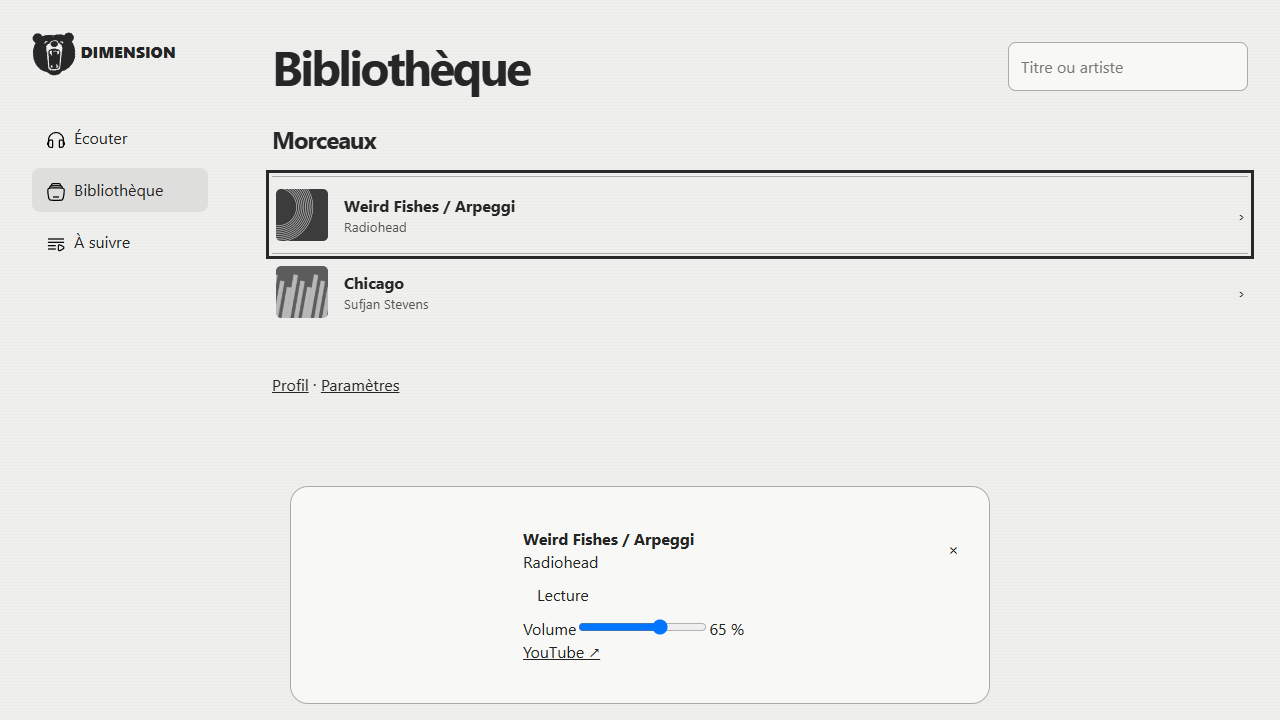
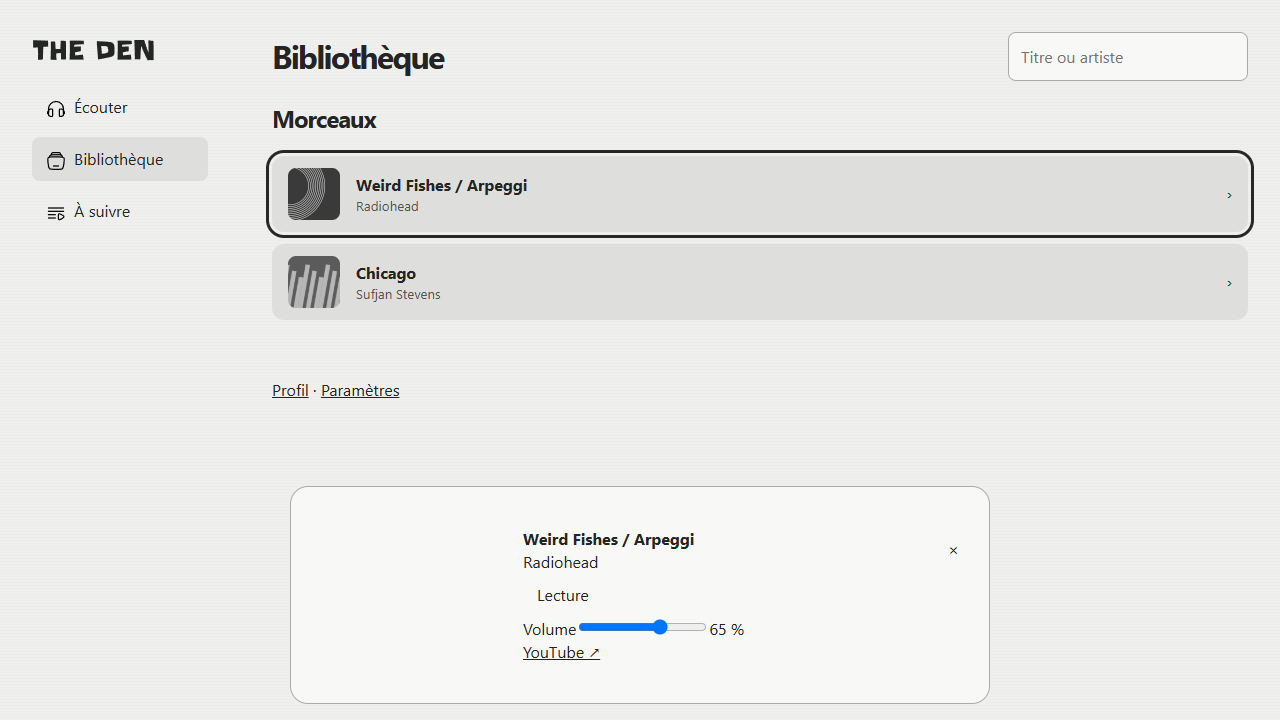
Match Figma entrance using the original The Den signature and paper layout

diff --git a/src/app/page.jsx b/src/app/page.jsx
@@ -1,4 +1,4 @@
-import { auth } from "../lib/identity";
+
 import styles from "./opening.module.css";
 const errors = {
   config: "Authentification non configurée.",
@@ -11,51 +11,14 @@ const errors = {
 };
 export const dynamic = "force-dynamic";
 export default async function Opening({ searchParams }) {
-  const session = await auth?.getSession(),
-    profile = session?.spotify,
+  const
+    
     error = errors[(await searchParams).error];
   return (
-    <main className={styles.frame}>
-      <section className={styles.sheet}>
-        <img className={styles.mark} src="/brand/dimension-mark.svg" alt="" />
-        <h1>DIMENSION</h1>
-        <p>AFTER THE NOISE</p>
-        <a className={styles.enter} href="/player">
-          Entrer
-        </a>
-        <div className={styles.accounts}>
-          <div>
-            <strong>Compte DIMENSION</strong>
-            <span>
-              {session?.user.name ||
-                session?.user.email ||
-                (session ? "Connecté" : "Déconnecté")}
-            </span>
-            <a href={session ? "/auth/logout" : "/auth/login"}>
-              {session ? "Se déconnecter" : "Se connecter"}
-            </a>
-          </div>
-          <div>
-            <strong>Spotify</strong>
-            {profile?.avatar && (
-              <img src={profile.avatar} width="40" height="40" alt="" />
-            )}
-            <span>
-              {profile
-                ? profile.name + " · " + profile.id
-                : "Aucun compte associé"}
-            </span>
-            {profile ? (
-              <form method="post" action="/api/spotify/disconnect">
-                <button>Dissocier Spotify</button>
-              </form>
-            ) : (
-              <a href="/api/spotify/connect">Connecter Spotify</a>
-            )}
-          </div>
-        </div>
-        {error && <p role="alert">{error}</p>}
-      </section>
-    </main>
+    <main className={styles.entry}>
+  <img className={styles.signature} src="/brand/the-den-opening.svg" alt="The Den"/>
+  <a className={styles.entryButton} href="/player">Entrer</a>
+  {error && <p role="alert">{error} <a href="/profil">Profil</a></p>}
+</main>
   );
 }

diff --git a/src/styles/materials.css b/src/styles/materials.css
@@ -75,3 +75,6 @@ a {
 .record img {
   filter: grayscale(1);
 }
+.den .logo{width:124px;height:auto}.den .collections button{background:transparent;border:0;padding:0;text-align:left}.collections img{border-radius:12px}.den .track{background:var(--wash);border:0;border-radius:12px;padding:12px 16px;margin:12px 0}.den .track img{border-radius:8px}.den[data-section="Écouter"] header input{display:none}.den .rest{box-shadow:0 -4px 18px #0002}.den footer{margin-top:48px}
+@media(min-width:701px) and (max-width:1359px){.den[data-section="Écouter"] section[aria-label="Liste des morceaux"] h2{display:none}.den h1{font-size:32px}.collections{margin-top:16px}.rail nav{margin-top:16px}}
+@media(min-width:1360px){.den[data-section="Écouter"] header input{display:block}}

diff --git a/src/TheDen.jsx b/src/TheDen.jsx
@@ -35,11 +35,10 @@ export default function TheDen() {
       .includes(query.trim().toLowerCase()),
   );
   return (
-    <div className="den">
+    <div className="den" data-section={section}>
       <aside className="rail">
         <a href="/" aria-label="DIMENSION · Accueil">
-          <img className="logo" src="/brand/dimension-mark.svg" alt="" />{" "}
-          DIMENSION
+          <img className="logo" src="/den-2.svg" alt="The Den" />
         </a>
         <nav aria-label="Navigation principale">
           {sections.map((name, i) => (
@@ -177,3 +176,4 @@ export default function TheDen() {
     </div>
   );
 }
+

diff --git a/src/app/opening.module.css b/src/app/opening.module.css
@@ -66,3 +66,8 @@
     justify-content: center;
   }
 }
+.entry{position:relative;min-height:100svh;background:#ebebe9;display:grid;justify-items:center}
+.signature{position:absolute;top:4%;width:min(32vw,56vh);height:48vh;object-fit:contain}
+.entryButton{position:absolute;top:75%;display:grid;place-items:center;width:clamp(164px,20vw,252px);min-height:72px;border-radius:16px;background:#d3d3ca;color:#242624;text-decoration:none;font-size:24px;font-weight:700}
+.entry p{position:absolute;bottom:0}.entryButton:hover{background:#c6c6be}
+@media(max-width:700px){.signature{width:68vw;top:9%}}

diff --git a/src/app/profil/page.jsx b/src/app/profil/page.jsx
@@ -23,10 +23,11 @@ export default async function Profile() {
         ) : (
           <a href="/api/spotify/connect">Connecter Spotify</a>
         )}
-        <a href="/">Accueil et connexion</a>
+        <a href={s ? "/auth/logout" : "/auth/login"}>{s ? "Se déconnecter" : "Se connecter"}</a>
         <a href="/player">Retour au lecteur</a>
       </section>
     </main>
   );
 }
 export const dynamic = "force-dynamic";
+
